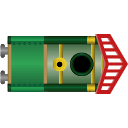
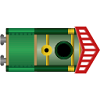
#50 - Client: Zug wird angezeigt !
er dreht eine runde und hat alle Felder abgesessen.. Applaus

diff --git a/RoRClient/Views/Game/LocoGameUserControl.xaml b/RoRClient/Views/Game/LocoGameUserControl.xaml
@@ -5,17 +5,18 @@
              xmlns:d="http://schemas.microsoft.com/expression/blend/2008"
              xmlns:v="clr-namespace:RoRClient.Views"
              xmlns:local="clr-namespace:RoRClient.Views.Game"
-             x:Name="locoUserControl"
+             x:Name="locoGameUserControl"
              mc:Ignorable="d" 
-             d:DesignHeight="300" d:DesignWidth="300">
+            Canvas.Top="{Binding RealY, ElementName=locoGameUserControl}"
+            Canvas.Left="{Binding RealX, ElementName=locoGameUserControl}"> 
     <UserControl.Resources>
 
     </UserControl.Resources>
     <Canvas Width="{Binding SquareDim, ElementName=locoGameUserControl}"
             Height="{Binding SquareDim, ElementName=locoGameUserControl}">
-        <Image Width="290" 
-               Height="290" 
-               Source="/RoRClient;component/Resources/Images/loco.png" Stretch="Fill">
+        <Image Width="{Binding SquareDim, ElementName=locoGameUserControl}" 
+               Height="{Binding SquareDim, ElementName=locoGameUserControl}" 
+                Source="/RoRClient;component/Resources/Images/loco.png" Stretch="Fill">
         </Image>
     </Canvas>
 </v:CanvasUserControl>

diff --git a/RoRClient/Views/Game/MapGameUserControl.xaml b/RoRClient/Views/Game/MapGameUserControl.xaml
@@ -31,7 +31,7 @@
 							</Canvas>
 						</DataTemplate>
 						<!-- Hier muss dann auch das LocoGameUserControl hin mit dem DataType des LocoGameViewModels, was ja in der PlaceableOnSquareCollection drin sein sollte -->
-                        <DataTemplate DataType="{x:Type vm:LocoGameViewModel}">
+                        <DataTemplate DataType="{x:Type game:LocoGameViewModel}">
                             <Canvas>
                                 <vg:LocoGameUserControl DataContext="{Binding}" X="{Binding SquarePosX}" Y="{Binding SquarePosY}"/>
                             </Canvas>

diff --git a/RoRClient/Commands/Game/Update/UpdateLocoCommand.cs b/RoRClient/Commands/Game/Update/UpdateLocoCommand.cs
@@ -13,6 +13,7 @@ namespace RoRClient.Commands.Game.Update
     class UpdateLocoCommand : CommandBase
     {
         private Guid locoId;
+        private Guid playerId;
         private int xPos;
         private int yPos;
 
@@ -21,15 +22,19 @@ namespace RoRClient.Commands.Game.Update
             locoId = Guid.Parse(messageInformation.GetValueAsString("locoId"));
             xPos = messageInformation.GetValueAsInt("xPos");
             yPos = messageInformation.GetValueAsInt("yPos");
+            playerId = Guid.Parse(messageInformation.GetValueAsString("playerId"));
+
         }
 
         public override void Execute()
-        { 
+        {
             GameSession gameSession = GameSession.GetInstance();
             Square square = gameSession.Map.GetSquare(xPos, yPos);
-            //Console.WriteLine(xPos+" " +yPos);
-            Loco loco = new Loco(locoId, square);
-            //square.PlaceableOnSquare = loco;
+            Player player = gameSession.GetPlayerById(playerId);
+            Loco loco = player.Loco;
+            loco.Square = square;
+            square.PlaceableOnSquare = loco;
         }
+
     }
 }

diff --git a/RoRClient/Commands/Game/Create/CreateLocoCommand.cs b/RoRClient/Commands/Game/Create/CreateLocoCommand.cs
@@ -25,7 +25,6 @@ namespace RoRClient.Commands.Game.Create
             xPos = messageInformation.GetValueAsInt("xPos");
             yPos = messageInformation.GetValueAsInt("yPos");
             playerId = Guid.Parse(messageInformation.GetValueAsString("playerId"));
-         
         }
 
         public override void Execute()
@@ -33,6 +32,7 @@ namespace RoRClient.Commands.Game.Create
             
             Player player = session.GetPlayerById(playerId);
             Square square = session.Map.GetSquare(xPos, yPos);
+            Console.WriteLine(square.PosX + " " + square.PosY);
             Loco loco = new Loco(locoId, square);
             player.Loco = loco;
             square.PlaceableOnSquare = loco;

diff --git a/RoRServer/src/main/java/models/game/Loco.java b/RoRServer/src/main/java/models/game/Loco.java
@@ -130,6 +130,7 @@ public class Loco extends TickableGameObject implements PlaceableOnRail  {
 		messageInfo.putValue("locoId", getId());
 		messageInfo.putValue("xPos", getXPos());
 		messageInfo.putValue("yPos", getYPos());
+		messageInfo.putValue("playerId", this.playerId);
 		notifyChange(messageInfo);
 	}
 	
